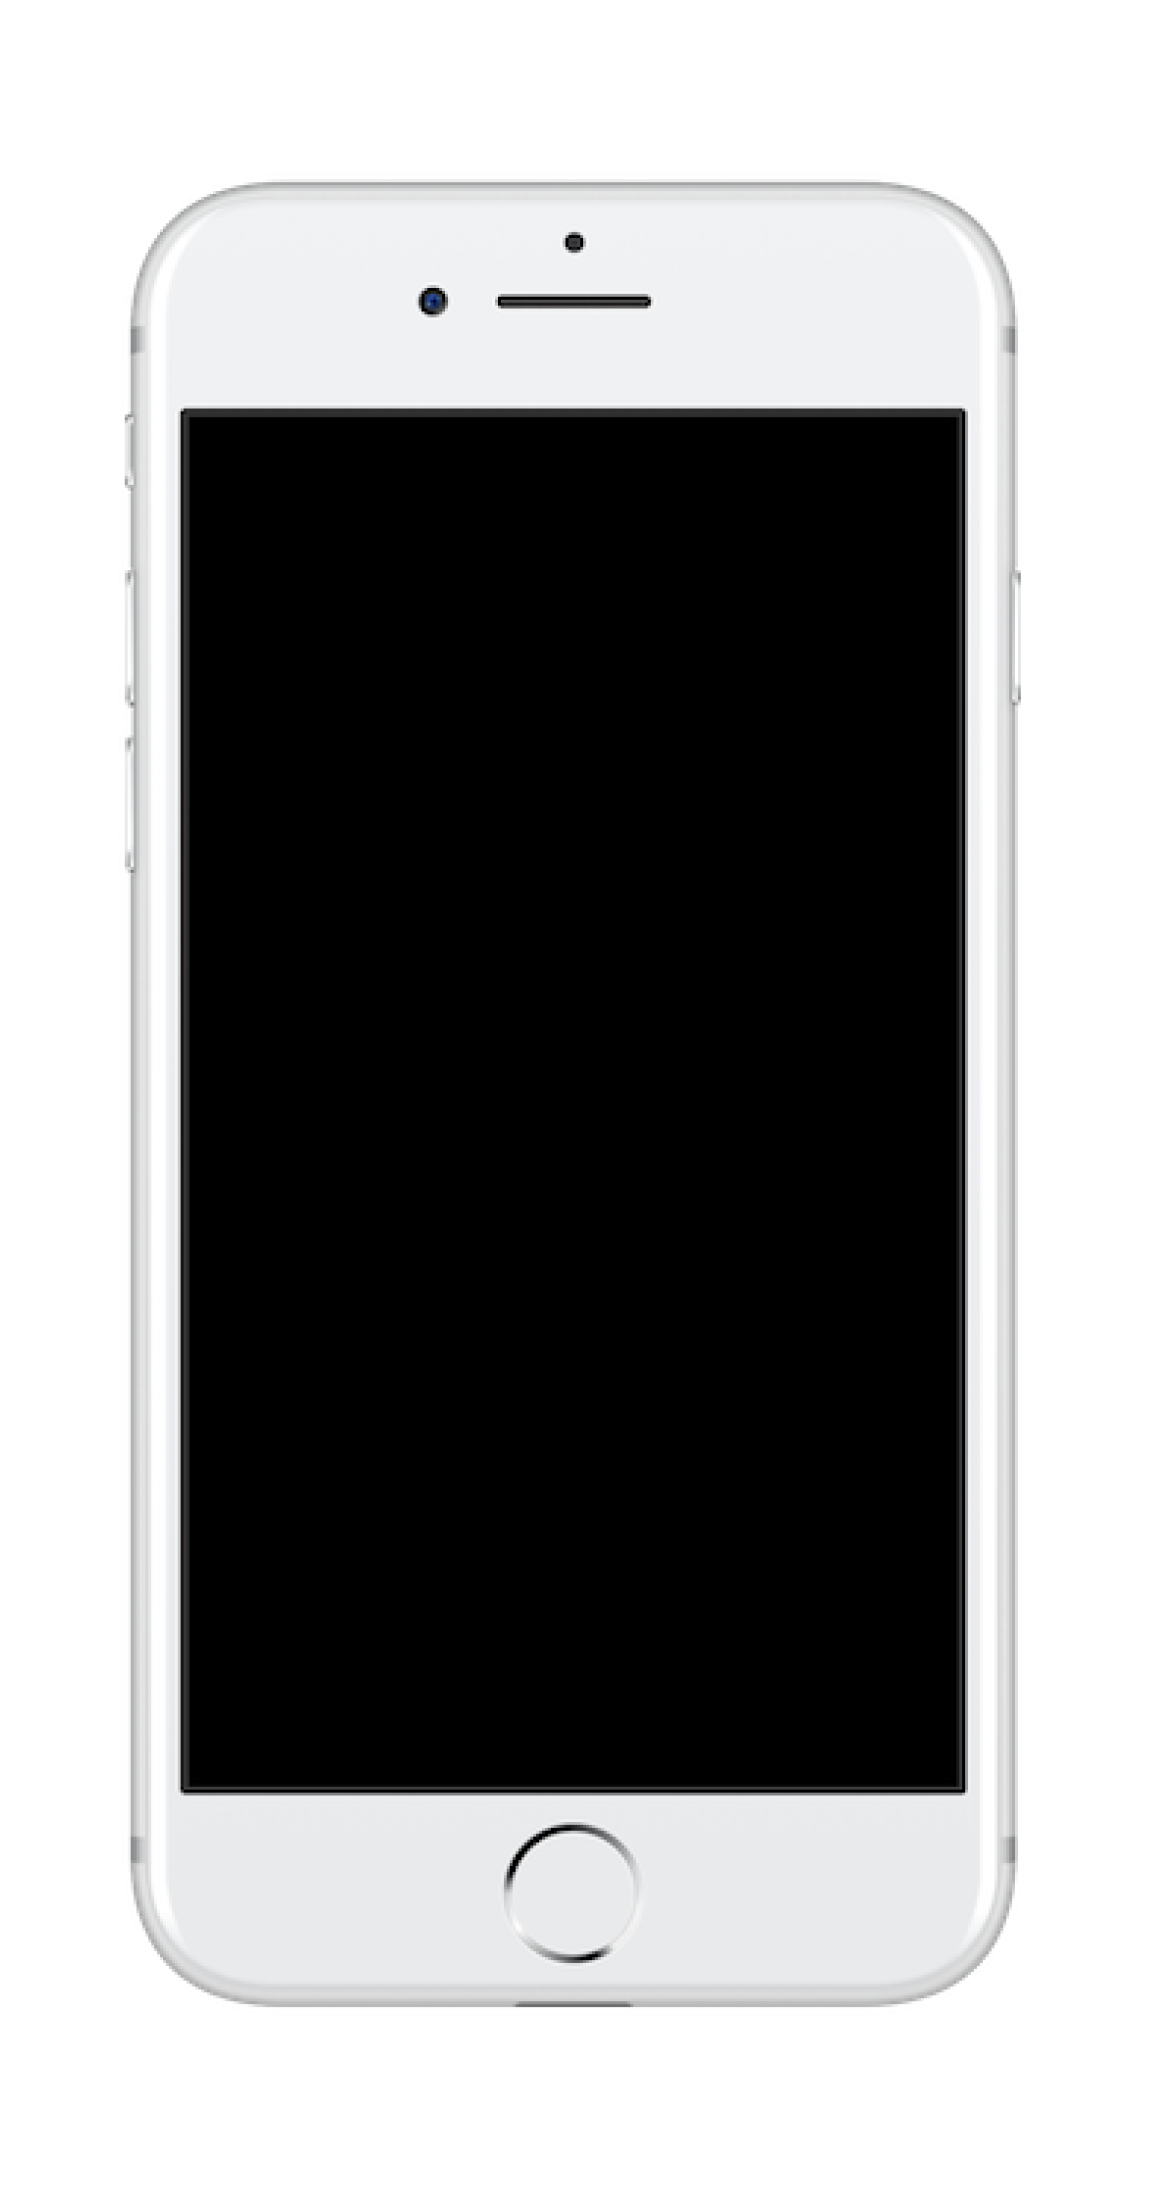
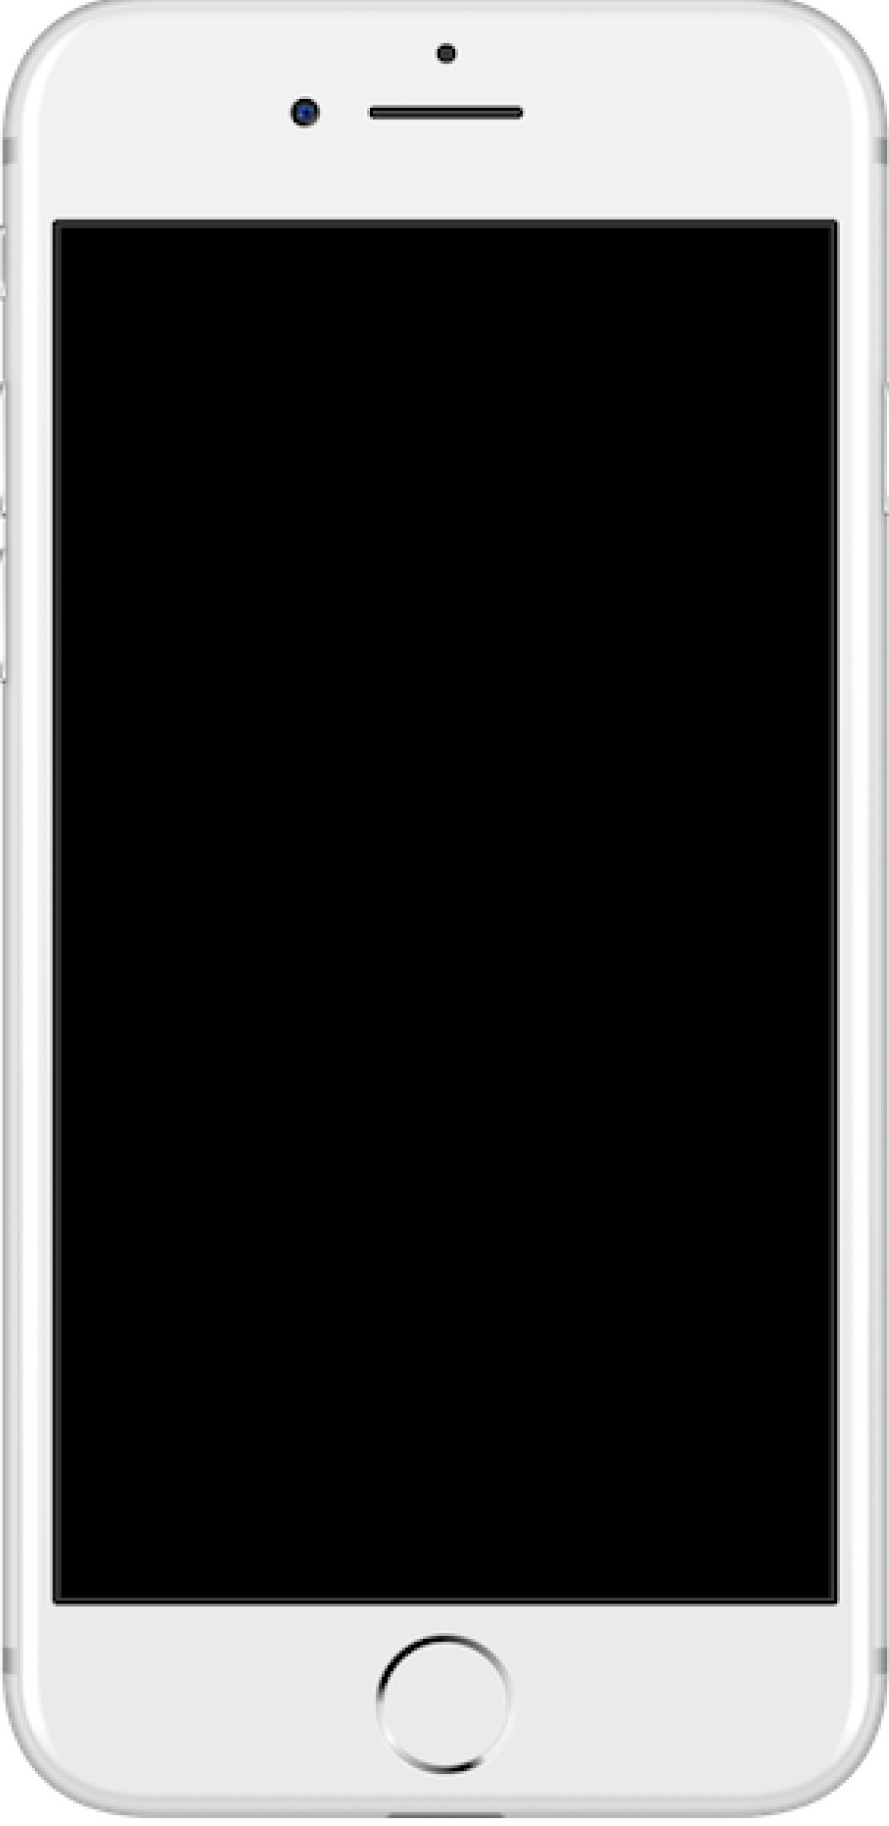
chore: center images and device frame in iphone 5.5

diff --git a/templates/ios.js b/templates/ios.js
@@ -1,110 +1,134 @@
 const jimp = require('jimp');
 
 const { getFilesPath } = require('../utils')
-
+const {log} = require('../utils/log.js')
 const { FOLDER_SCREEENSHOT, PATH_ASSETS_IOS_MOBILE_6_5, PATH_ASSETS_IOS_MOBILE_5_5, PATH_ASSETS_IOS_TABLET_12_2ND, PATH_ASSETS_IOS_TABLET_12_3RD, PATH_RESULT } = require('../constants');
 
-async function generateMobile_ios_6_5(){
+async function generateMobile_ios_6_5() {
   console.log('🏗  Creating assets devices 6.5 📱');
   const bg = await jimp.read(`${PATH_ASSETS_IOS_MOBILE_6_5}/bg.png`);
   const device = await jimp.read(`${PATH_ASSETS_IOS_MOBILE_6_5}/device.png`);
   const filesMobile = []
   const pathPrintMobile = await getFilesPath(FOLDER_SCREEENSHOT)
- 
+
   for (const path of pathPrintMobile) {
     filesMobile.push(jimp.read(`${FOLDER_SCREEENSHOT}/${path}`))
   }
 
-  Promise.all(filesMobile).then(()=>{
+  Promise.all(filesMobile).then(() => {
     return Promise.all(filesMobile)
-  }).then((data)=>{
+  }).then((data) => {
     for (let index = 0; index < data.length; index++) {
       data[index].resize(950, jimp.AUTO);
       bg.composite(data[index], 150, 120)
       bg.composite(device, 0, 100)
       bg.normalize()
       bg.write(`${PATH_RESULT}/ios/mobile-6.5/mobile6_5-${index}.jpg`);
-      console.log(`[${index+1}/${data.length}] Asset mobile6_5-${index}.jpg created`);
+      console.log(`[${index + 1}/${data.length}] Asset mobile6_5-${index}.jpg created`);
     }
     console.log('✅  Assets devices 6.5 completed');
   })
 }
 
-async function generateMobile_ios_5_5(){
-  console.log('🏗  Creating assets devices 5.5 📱');
-  const bg = await jimp.read(`${PATH_ASSETS_IOS_MOBILE_5_5}/bg.png`);
+async function generateMobile_ios_5_5() {
+  log('Creating assets devices 5.5 📱');
+
+  const backgroud = await jimp.read(`${PATH_ASSETS_IOS_MOBILE_5_5}/bg.png`);
+
   const device = await jimp.read(`${PATH_ASSETS_IOS_MOBILE_5_5}/device.png`);
-  const filesMobile = []
-  const pathPrintMobile = await getFilesPath(FOLDER_SCREEENSHOT)
- 
+
+  const filesMobile = [];
+
+  const pathPrintMobile = await getFilesPath(FOLDER_SCREEENSHOT);
+
+  const backgroudSize = [backgroud.bitmap.width, backgroud.bitmap.height];
+
+  const deviceSize = [device.bitmap.width, device.bitmap.height];
+
+  const screenSize = [800, 1400];
+
+  const imageCenter = [
+    backgroudSize[0] / 2 - deviceSize[0] / 2, 
+    backgroudSize[1] / 2 - deviceSize[1] / 2
+  ];
+
+  const deviceFrame = [
+    backgroudSize[0] / 2 - (deviceSize[0] - (deviceSize[0] - screenSize[0])) / 2, 
+    backgroudSize[1] / 2 - (deviceSize[1] - (deviceSize[1] - screenSize[1])) / 2
+  ];
+
   for (const path of pathPrintMobile) {
     filesMobile.push(jimp.read(`${FOLDER_SCREEENSHOT}/${path}`))
   }
 
-  Promise.all(filesMobile).then((data)=>{
+  Promise.all(filesMobile).then((data) => {
     return Promise.all(filesMobile)
-  }).then((data)=>{
-    for (let index = 0; index < data.length; index++) {
-      data[index].resize(788, 1400);
-      bg.composite(device, 0, 0)
-      bg.composite(data[index], 180, 400)
-     
-      bg.write(`${PATH_RESULT}/ios/mobile-5.5/mobile5_5-${index}.jpg`);
-      console.log(`[${index+1}/${data.length}] Asset mobile5_5-${index}.jpg created`);
+  }).then((screenshots) => {
+    for (let index = 0; index < screenshots.length; index++) {
+
+      screenshots[index].resize(screenSize[0], screenSize[1]);
+
+      backgroud.composite(device, imageCenter[0], imageCenter[1]);
+
+      backgroud.composite(screenshots[index], deviceFrame[0], deviceFrame[1]);
+
+      backgroud.write(`${PATH_RESULT}/ios/mobile-5.5/mobile5_5-${index}.jpg`);
+
+      log(`[${index + 1}/${screenshots.length}] Asset mobile5_5-${index}.jpg created`);
     }
-    console.log('✅  Assets devices 5.5 completed');
+    log('Assets devices 5.5 completed', 'success');
 
   })
 }
 
-async function generateTablet_ios_12_9_2nd(){
+async function generateTablet_ios_12_9_2nd() {
   console.log('🏗  Creating assets tablet 12.9 2nd 🖼');
   const bg = await jimp.read(`${PATH_ASSETS_IOS_TABLET_12_2ND}/bg.png`);
   const device = await jimp.read(`${PATH_ASSETS_IOS_TABLET_12_2ND}/device.png`);
   const filesMobile = []
   const pathPrintMobile = await getFilesPath(FOLDER_SCREEENSHOT)
- 
+
   for (const path of pathPrintMobile) {
     filesMobile.push(jimp.read(`${FOLDER_SCREEENSHOT}/${path}`))
   }
 
-  Promise.all(filesMobile).then((data)=>{
+  Promise.all(filesMobile).then((data) => {
     return Promise.all(filesMobile)
-  }).then((data)=>{
+  }).then((data) => {
     for (let index = 0; index < data.length; index++) {
       data[index].resize(1487, 1992);
       bg.composite(device, 100, 300)
       bg.composite(data[index], 240, 450)
-     
+
       bg.write(`${PATH_RESULT}/ios/tablet-12.9-2nd/tablet-2nd-${index}.jpg`)
-      console.log(`[${index+1}/${data.length}] Asset tablet-3nd-${index}.jpg created`);
+      console.log(`[${index + 1}/${data.length}] Asset tablet-3nd-${index}.jpg created`);
     }
     console.log('✅  Assets tablet 12.9 2nd completed');
 
   })
 }
 
-async function generateTablet_ios_12_9_3rd(){
+async function generateTablet_ios_12_9_3rd() {
   console.log('🏗  Creating assets tablet 12.9 2rd 🖼');
   const bg = await jimp.read(`${PATH_ASSETS_IOS_TABLET_12_3RD}/bg.png`);
   const device = await jimp.read(`${PATH_ASSETS_IOS_TABLET_12_3RD}/device.png`);
   const filesMobile = []
   const pathPrintMobile = await getFilesPath(FOLDER_SCREEENSHOT)
- 
+
   for (const path of pathPrintMobile) {
     filesMobile.push(jimp.read(`${FOLDER_SCREEENSHOT}/${path}`))
   }
 
-  Promise.all(filesMobile).then((data)=>{
+  Promise.all(filesMobile).then((data) => {
     return Promise.all(filesMobile)
-  }).then((data)=>{
+  }).then((data) => {
     for (let index = 0; index < data.length; index++) {
       data[index].resize(1575, 2114);
       bg.composite(device, 150, 300)
       bg.composite(data[index], 215, 370)
-     
+
       bg.write(`${PATH_RESULT}/ios/tablet-12.9-3rd/tablet-3rd-${index}.jpg`)
-      console.log(`[${index+1}/${data.length}] Asset tablet-3rd-${index}.jpg created`);
+      console.log(`[${index + 1}/${data.length}] Asset tablet-3rd-${index}.jpg created`);
     }
     console.log('✅  Assets tablet 12.9 3rd completed');
   })

diff --git a/index.js b/index.js
@@ -19,9 +19,9 @@ async function main() {
       break;
     case 2:
       await generateMobile_ios_5_5();
-      await generateMobile_ios_6_5();
-      await generateTablet_ios_12_9_2nd();
-      await generateTablet_ios_12_9_3rd();
+      // await generateMobile_ios_6_5();
+      // await generateTablet_ios_12_9_2nd();
+      // await generateTablet_ios_12_9_3rd();
       break;
     default:
       console.info('nothing')

diff --git a/utils/log.js b/utils/log.js
@@ -1,0 +1,9 @@
+const logSymbols = require('log-symbols');
+
+
+
+function log(message, type='info'){
+  console.log(logSymbols[type], message);
+}
+
+module.exports.log = log;
